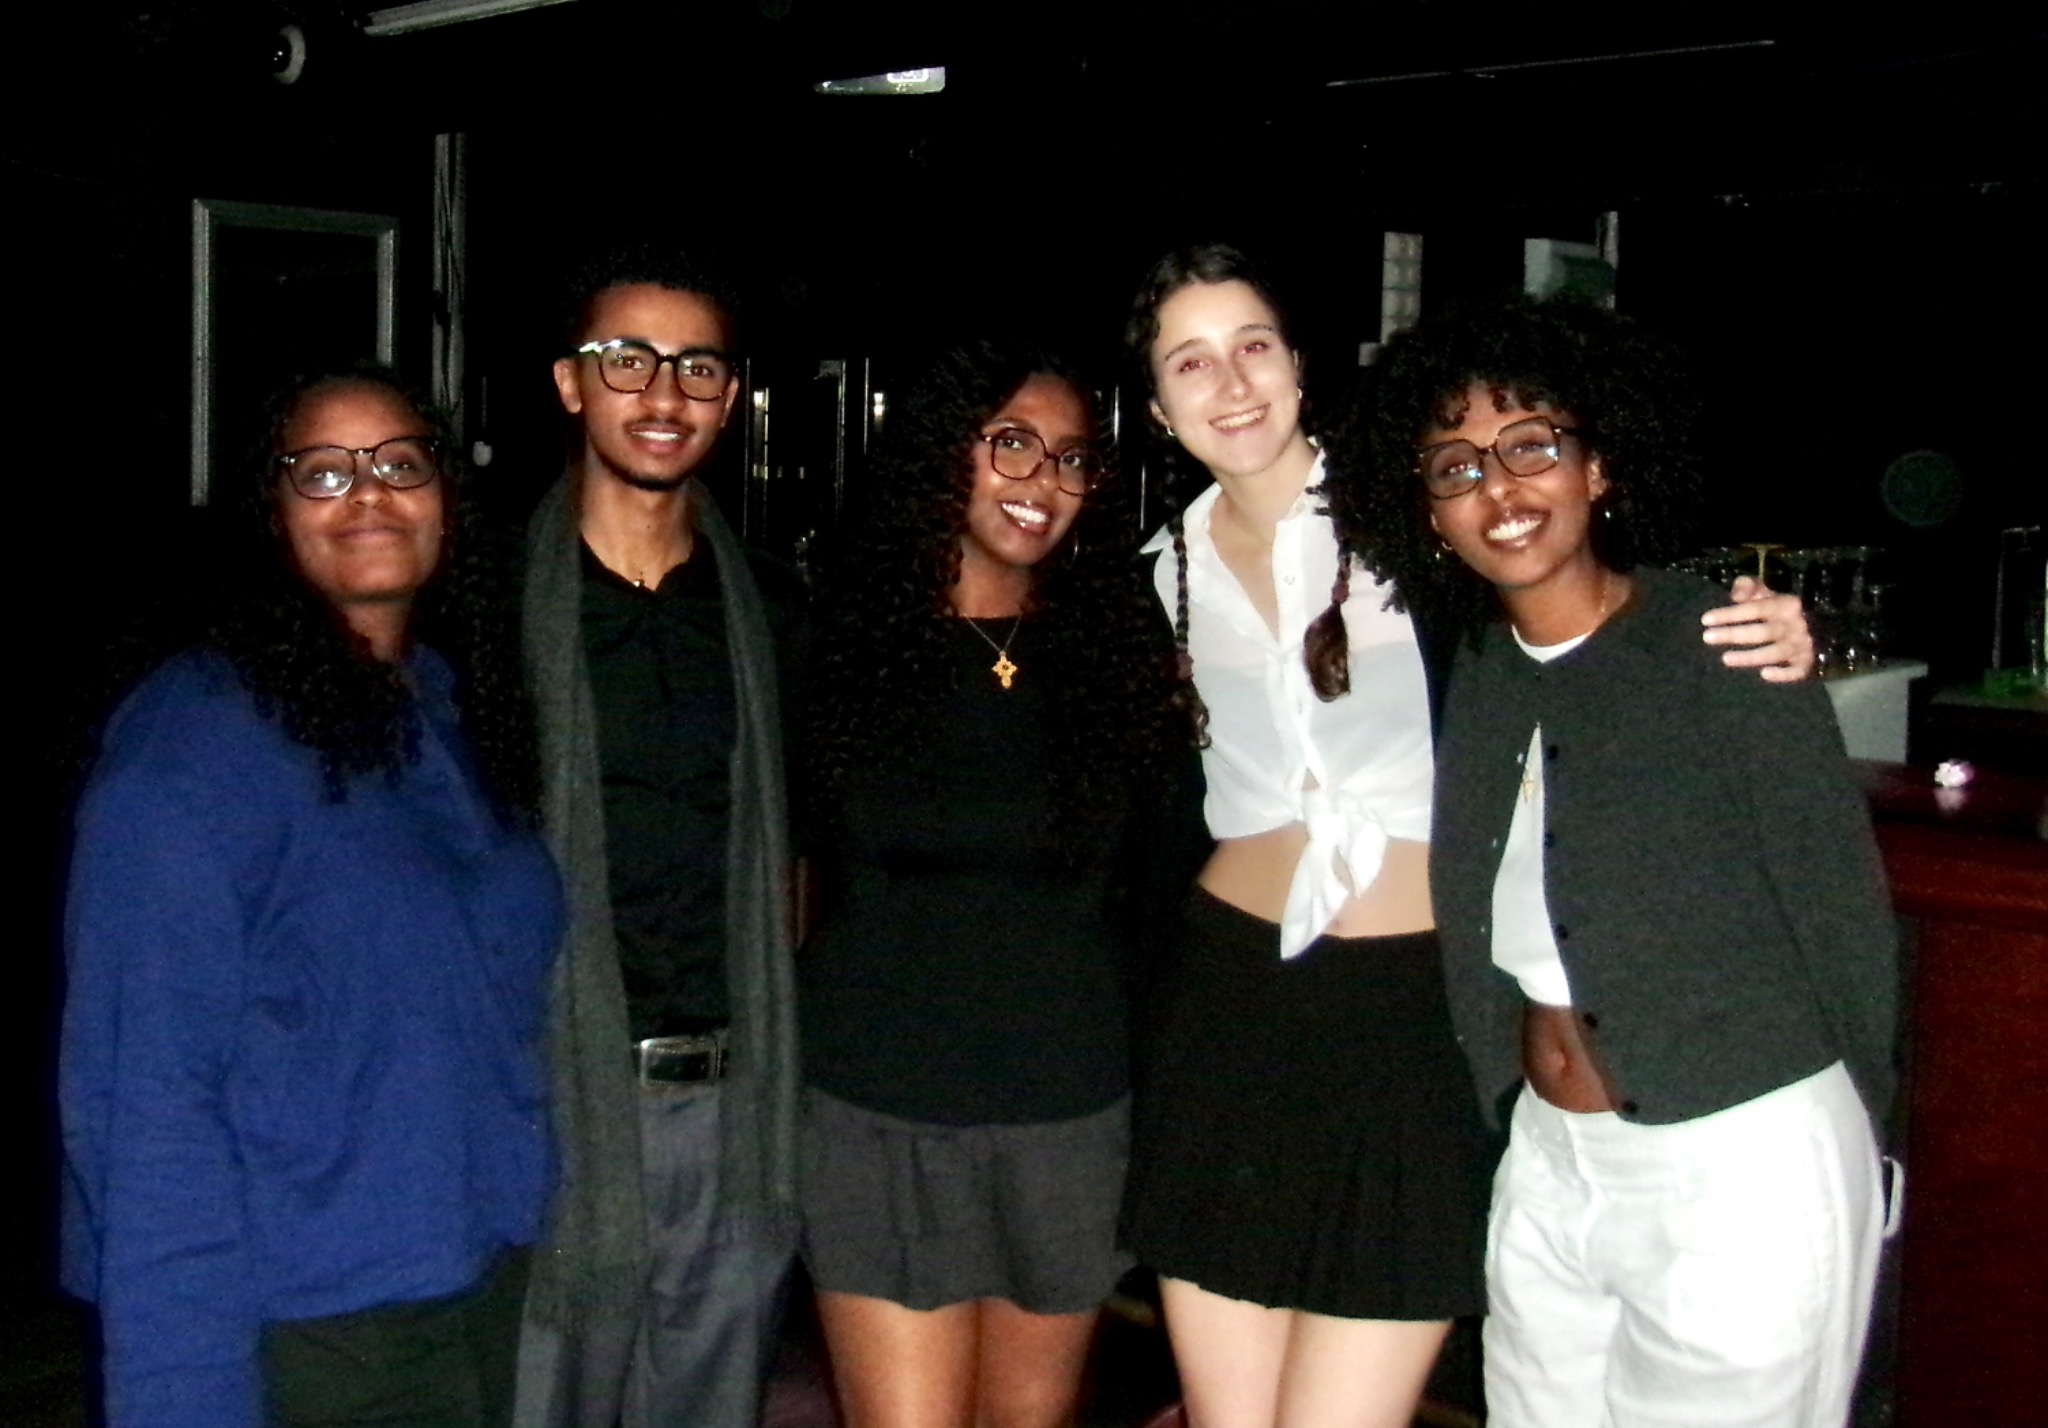
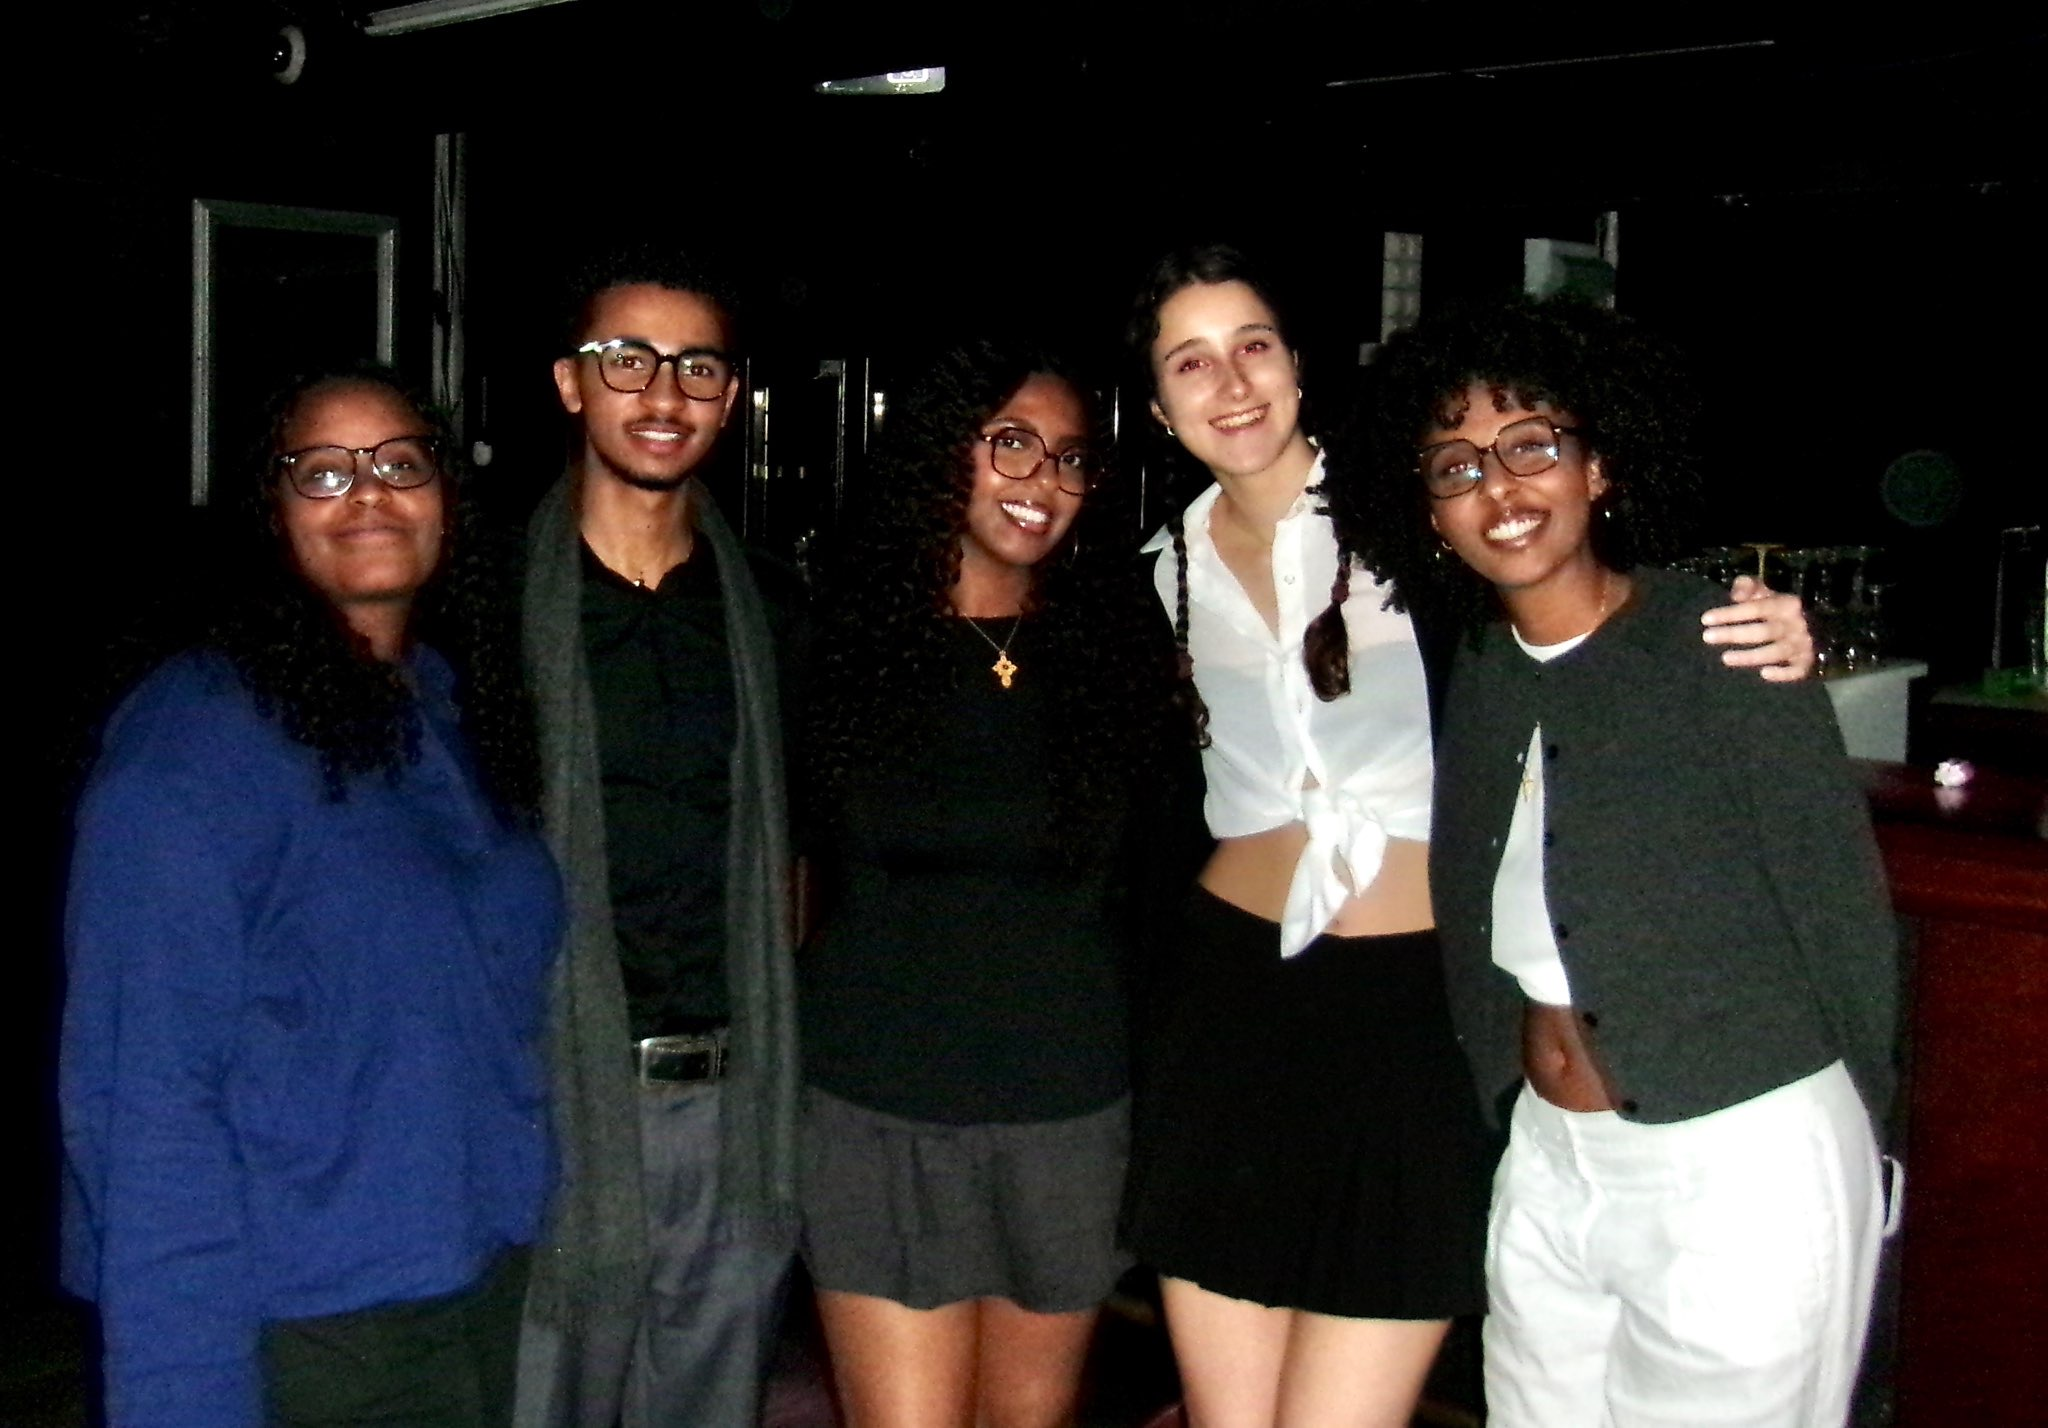
Frame department previews edge to edge and enhance finance photo

diff --git a/index.html b/index.html
@@ -9,7 +9,7 @@
   <link rel="preconnect" href="https://fonts.googleapis.com">
   <link rel="preconnect" href="https://fonts.gstatic.com" crossorigin>
   <link href="https://fonts.googleapis.com/css2?family=Inter:wght@400;500;600;700;800;900&amp;display=swap" rel="stylesheet">
-  <link rel="stylesheet" href="styles.css?v=full-team-photos-20260908">
+  <link rel="stylesheet" href="styles.css?v=framed-team-photos-20260908">
 </head>
 <body>
   <a class="skip-link" href="#main">Skip to content</a>
@@ -78,7 +78,7 @@
             <span class="card-body"><span class="card-number">03</span><strong>Membership Experience</strong><span>Recruit, develop and support our members.</span><span class="card-arrow" aria-hidden="true">&rarr;</span></span>
           </button>
           <button class="department-card" type="button" data-department="finance" aria-haspopup="dialog">
-            <img src="assets/finance-legalities.jpg?v=4fac268e3df8" alt="" width="1280" height="719" loading="lazy">
+            <img src="assets/finance-legalities.jpg?v=d15bfb81472f" alt="" width="1280" height="719" loading="lazy">
             <span class="card-body"><span class="card-number">04</span><strong>Finance and Legalities</strong><span>Keep our operations healthy and compliant.</span><span class="card-arrow" aria-hidden="true">&rarr;</span></span>
           </button>
           <button class="department-card" type="button" data-department="business" aria-haspopup="dialog">
@@ -149,7 +149,7 @@
     <article class="dialog-department"><img src="assets/membership-experience.jpg?v=245be94012f8" alt="Membership Experience team at AIESEC in Geneva" width="1280" height="719"><div class="dialog-copy"><p class="department-number">03 / 08</p><h2 id="dialog-title">Membership Experience (HR)</h2><h3>Join MXP and shape the ultimate AIESEC experience</h3><p>The MXP (Membership Experience) department is the heart of our community, ensuring that every member thrives, grows and feels valued within AIESEC. Our mission is to create an enriching and empowering journey for every individual in the organization.</p><h4>As part of MXP, you will:</h4><ul><li><strong>Lead recruitments:</strong> Bring in passionate and motivated new members.</li><li><strong>Support and coach members:</strong> Help them grow through mentorship and guidance.</li><li><strong>Organize skill-building workshops:</strong> Foster leadership, teamwork and personal development.</li><li><strong>Strengthen AIESEC culture:</strong> Create an inclusive, inspiring and engaging environment.</li><li><strong>Maintain alumni relations:</strong> Keep connections strong beyond AIESEC.</li></ul><p class="fit-note">If you are passionate about HR, people development and creating an unforgettable team experience, MXP is where you belong.</p></div></article>
   </template>
   <template id="department-finance">
-    <article class="dialog-department"><img src="assets/finance-legalities.jpg?v=4fac268e3df8" alt="Finance and Legalities team at AIESEC in Geneva" width="1280" height="719"><div class="dialog-copy"><p class="department-number">04 / 08</p><h2 id="dialog-title">Finance and Legalities</h2><h3>Join F&amp;L and drive financial excellence in AIESEC</h3><p>The Finance and Legalities (F&amp;L) department is the backbone of AIESEC, ensuring the organization operates smoothly, transparently and sustainably. Aligned with AIESEC's global seven Finance Standards, F&amp;L plays a crucial role in maintaining financial health and legal compliance.</p><h4>As part of F&amp;L, you will:</h4><ul><li><strong>Manage budgets and financial planning</strong> to ensure efficient resource allocation.</li><li><strong>Handle transactions and accounting</strong> for smooth financial operations.</li><li><strong>Oversee legal compliance</strong> to ensure AIESEC operates within regulations.</li><li><strong>Conduct audits and risk management</strong> to maintain transparency and security.</li><li><strong>Work collaboratively on investments and financial strategy</strong> for long-term growth.</li></ul><p class="fit-note">If you are interested in finance, accounting or law and want to develop essential skills in financial management, F&amp;L is the place to gain hands-on experience.</p></div></article>
+    <article class="dialog-department"><img src="assets/finance-legalities.jpg?v=d15bfb81472f" alt="Finance and Legalities team at AIESEC in Geneva" width="1280" height="719"><div class="dialog-copy"><p class="department-number">04 / 08</p><h2 id="dialog-title">Finance and Legalities</h2><h3>Join F&amp;L and drive financial excellence in AIESEC</h3><p>The Finance and Legalities (F&amp;L) department is the backbone of AIESEC, ensuring the organization operates smoothly, transparently and sustainably. Aligned with AIESEC's global seven Finance Standards, F&amp;L plays a crucial role in maintaining financial health and legal compliance.</p><h4>As part of F&amp;L, you will:</h4><ul><li><strong>Manage budgets and financial planning</strong> to ensure efficient resource allocation.</li><li><strong>Handle transactions and accounting</strong> for smooth financial operations.</li><li><strong>Oversee legal compliance</strong> to ensure AIESEC operates within regulations.</li><li><strong>Conduct audits and risk management</strong> to maintain transparency and security.</li><li><strong>Work collaboratively on investments and financial strategy</strong> for long-term growth.</li></ul><p class="fit-note">If you are interested in finance, accounting or law and want to develop essential skills in financial management, F&amp;L is the place to gain hands-on experience.</p></div></article>
   </template>
   <template id="department-business">
     <article class="dialog-department"><img src="assets/business-development.jpg" alt="Business Development team at AIESEC in Geneva" width="1280" height="720"><div class="dialog-copy"><p class="department-number">05 / 08</p><h2 id="dialog-title">Business Development</h2><h3>Join BD and build game-changing partnerships</h3><p>The Business Development (BD) department is all about creating strategic partnerships that support AIESEC's initiatives and events. From securing sponsorships to collaborating with local businesses, BD plays a key role in enhancing the quality and impact of our activities.</p><h4>As part of BD, you will:</h4><ul><li><strong>Secure sponsorships and in-kind partnerships</strong> to fund and improve our events.</li><li><strong>Engage with local businesses</strong> through collaborations and giveaways.</li><li><strong>Research and reach out to potential partners</strong> via email, phone and direct meetings.</li><li><strong>Represent AIESEC in networking spaces</strong> by pitching our vision and forging meaningful connections.</li></ul><p class="fit-note">If you love negotiation, networking and business strategy, BD is where you can make a real impact while developing professional skills.</p></div></article>

diff --git a/styles.css b/styles.css
@@ -94,3 +94,18 @@ h3 { margin-bottom:14px; font-size:1.25rem; letter-spacing:-.02em; }
 
 /* Keep display headings and interface labels in Inter. */
 h1,h2,h3,h4,.card-body strong,.site-nav,.button,.eyebrow,.status,.card-number,.department-number,.faq-list summary,.social-links,.footer-inner strong { font-family:Inter,ui-sans-serif,-apple-system,BlinkMacSystemFont,"Segoe UI",sans-serif; }
+
+/* Landscape frames keep group photos edge-to-edge at every screen width. */
+.department-card img { width:100%; height:auto; min-height:0; aspect-ratio:3/2; object-fit:cover; object-position:50% 30%; }
+.department-card[data-department="membership"] img { aspect-ratio:679/536; object-position:center; }
+.department-card[data-department="relations"] img { aspect-ratio:1009/719; object-position:center; }
+.department-card[data-department="incoming"] img { object-position:50% 20%; }
+.department-card[data-department="finance"] img { object-position:50% 25%; }
+.department-card[data-department="outgoing"] img { object-position:50% 35%; }
+.department-card[data-department="engage"] img { object-position:center; }
+.department-card[data-department="marketing"] img { aspect-ratio:2048/1172; object-position:center; }
+.department-card[data-department="business"] img { height:auto; aspect-ratio:auto; }
+@media(max-width:680px) {
+  .department-card { display:block; }
+  .department-card img { height:auto; min-height:0; }
+}
